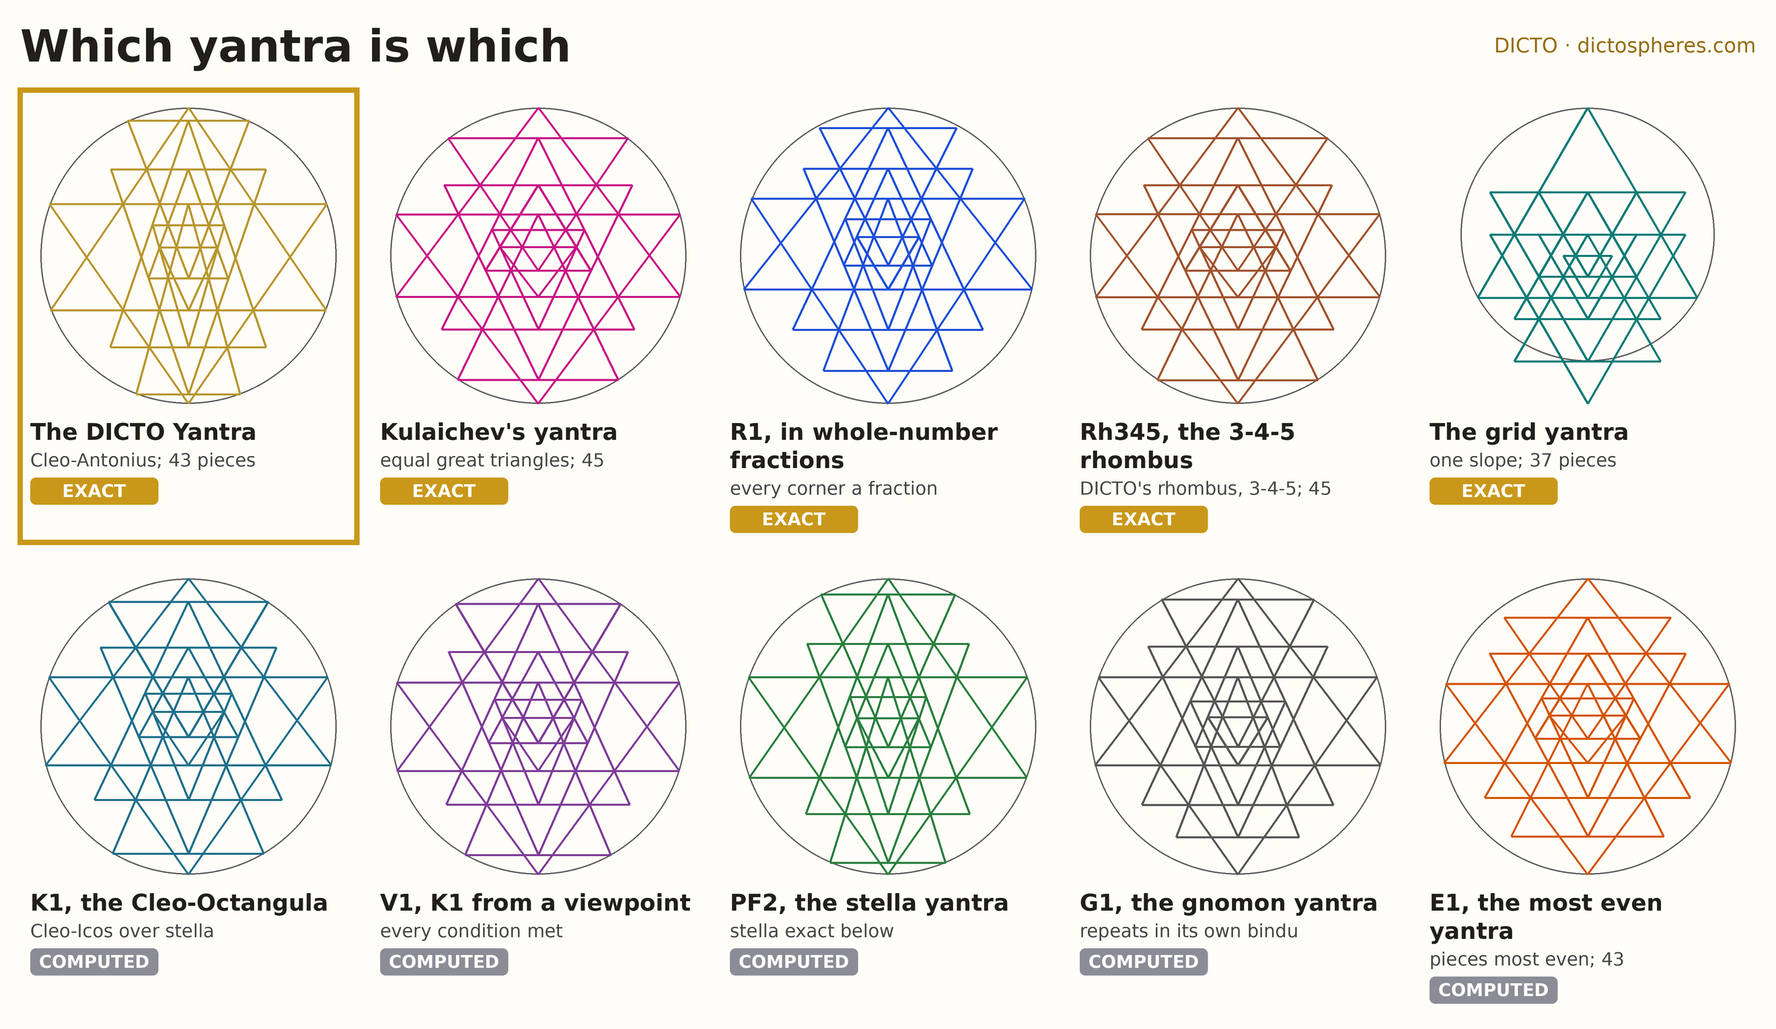
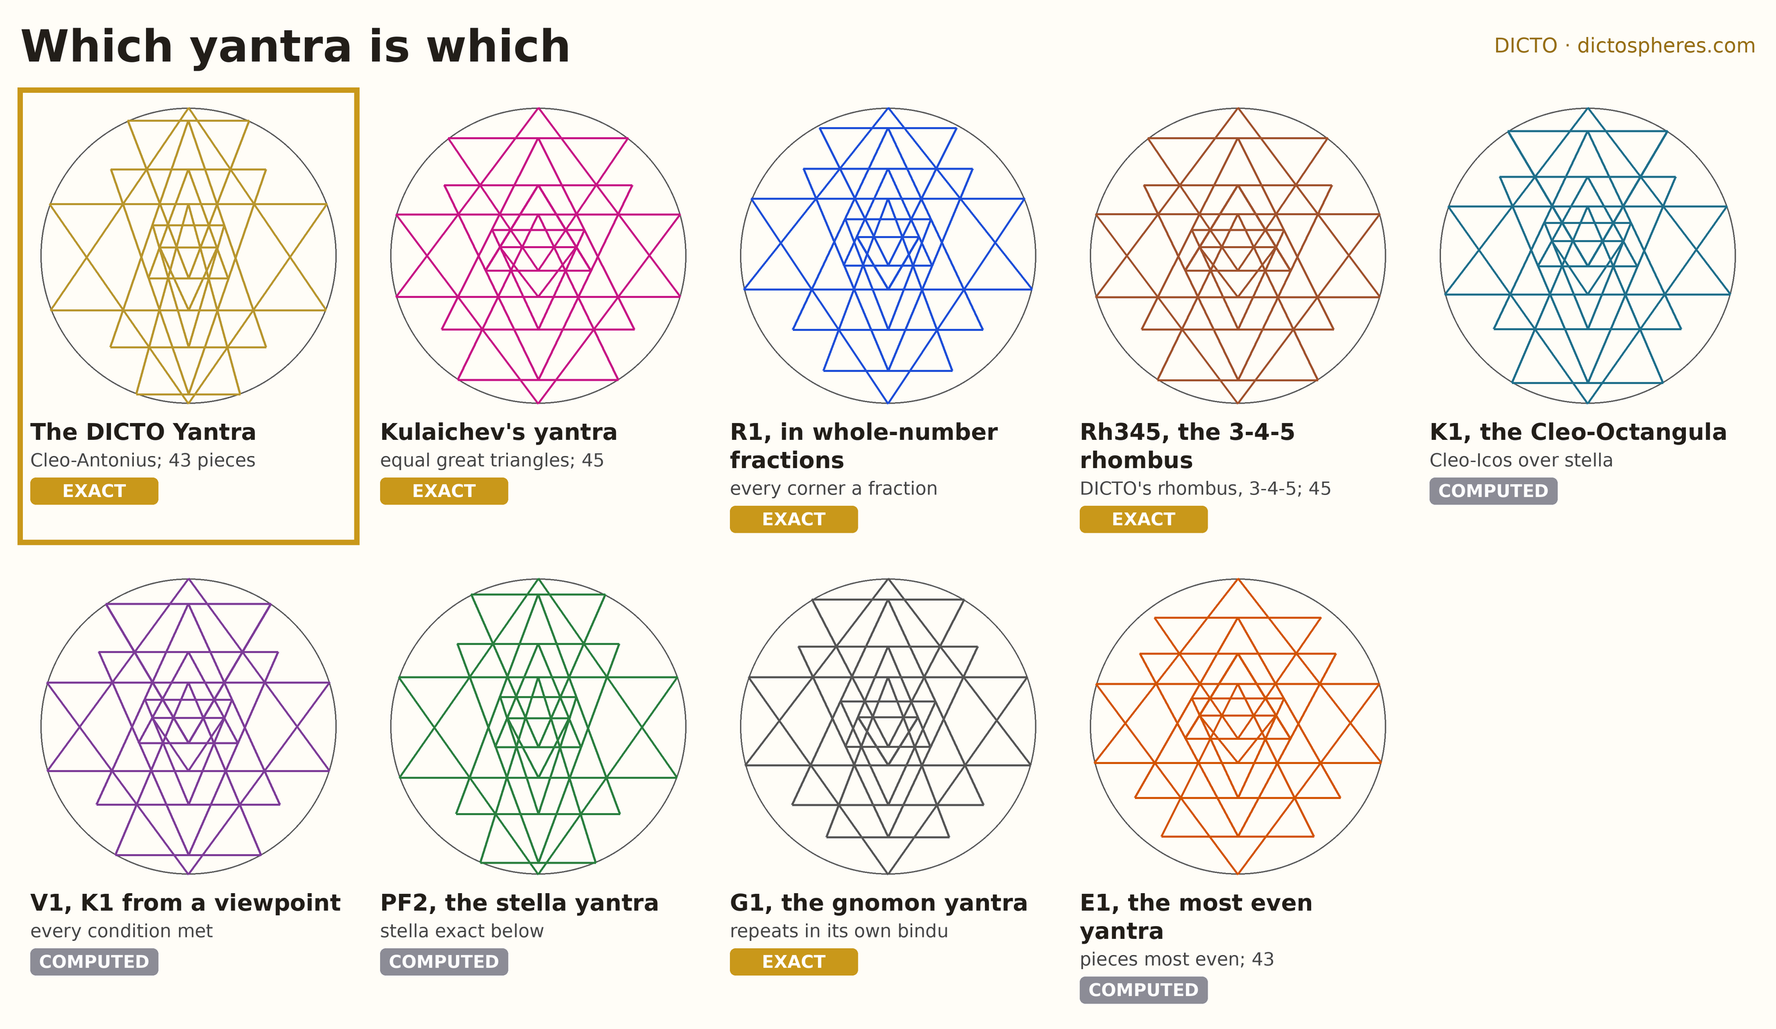
#103 v3: grid figure is the evidence for Theorem 7, not a yantra (out of Figure 2 and the exact list); G1 marked exact

diff --git a/papers/2026-11-08-dicto-yantra/paper.html b/papers/2026-11-08-dicto-yantra/paper.html
@@ -17,7 +17,7 @@ DICTO: ideas, names, constructions and direction.<br>Computation, verification a
 
 <div class="status">DRAFT of Version 3 for DICTO to read. Built from the proof audit of 9 November (studies/2026-11-09-yantra-audit: AUDIT_REPORT.md, certificates/, appendix_H.md). Before release: the data link in the meta line still points to commit 8e56566f; the audit's certificate scripts and the repaired cleo_cap.py go into the public kaleidohedra repository first, and the link moves to that commit. Attach H-full.txt (Appendix H), threshold-minpoly-u.txt (Proposition 13) and g1-minpoly-t.txt (G1) beside the two polynomial files. On release this box goes and the line below becomes the permanent Version 3 line.</div>
 
-<p class="version"><b>Version 3 adds</b> certificates for Theorems 9 and 10 (irreducibility, real-root isolation, and interval Newton with the elimination identities); certified piece counts for the DICTO Yantra (43) and Kulaichev's yantra (45); Appendix H (Theorem 6's relation H in full); a proof-status table (Table 4); admissibility conditions in Theorem 1; the narrower heading of Proposition 8; DICTO's 3-4-5 rhombus yantra as the parallel exact solution beside Kulaichev's (Proposition 12); a close-up of Kulaichev's extra pieces (Figure 12); the rhombus threshold u* where the extra pieces are born (Proposition 13); G1 exactly (degree 152); E1 placed on the edge of that threshold meeting and refined to 90 digits; and Figure 8 and §7 now name every part of the grid yantra outside the circle (t3's lower part and t9's base), not only t3's tip.<br><b>Version 2 added</b> the new title; the two exact solutions, the DICTO Yantra (Theorem 9: minimal polynomial of degree 160) and Kulaichev's classical yantra (Theorem 10: degree 348), each checked independently at 260 digits and backwards from the polynomial alone, and their comparison (Proposition 11); overlay figures, each yantra dotted in its own colour over the DICTO Yantra with its shortcomings noted in red, and an overview figure; §13 sorted into closed and exact, computed, and open; and wording: "perfect" is replaced by the conditions it stood for.</p>
+<p class="version"><b>Version 3 adds</b> certificates for Theorems 9 and 10 (irreducibility, real-root isolation, and interval Newton with the elimination identities); certified piece counts for the DICTO Yantra (43) and Kulaichev's yantra (45); Appendix H (Theorem 6's relation H in full); a proof-status table (Table 4); admissibility conditions in Theorem 1; the narrower heading of Proposition 8; DICTO's 3-4-5 rhombus yantra as the parallel exact solution beside Kulaichev's (Proposition 12); a close-up of Kulaichev's extra pieces (Figure 12); the rhombus threshold u* where the extra pieces are born (Proposition 13); G1 exactly (degree 152); E1 placed on the edge of that threshold meeting and refined to 90 digits; and the grid figure of §7 is no longer counted as a yantra: Figure 8 ("Why a grid fails") is the evidence for Theorem 7, naming every part outside the circle, and the grid leaves Figure 2.<br><b>Version 2 added</b> the new title; the two exact solutions, the DICTO Yantra (Theorem 9: minimal polynomial of degree 160) and Kulaichev's classical yantra (Theorem 10: degree 348), each checked independently at 260 digits and backwards from the polynomial alone, and their comparison (Proposition 11); overlay figures, each yantra dotted in its own colour over the DICTO Yantra with its shortcomings noted in red, and an overview figure; §13 sorted into closed and exact, computed, and open; and wording: "perfect" is replaced by the conditions it stood for.</p>
 
 <figure class="cover"><img src="figures/dicto-yantra-3d-gf1.png" alt="The DICTO Yantra in three dimensions: spinning cones, still tetrahedra, and the yantra seen from one of three positions"></figure>
 
@@ -27,11 +27,11 @@ DICTO: ideas, names, constructions and direction.<br>Computation, verification a
 
 <figure><img class="one" src="figures/dicto-yantra-gf1-plate.png" alt="The DICTO Yantra: nine triangles in a circle, 43 small triangles shaded ring by ring, 18 meeting points in red, the kite dashed"><figcaption><b>Figure 1. The DICTO Yantra.</b> Great pair: the Cleo-Antonius seen from the viewpoint that centres the bindu (slopes 0.6793 above, 0.6950 below, product exactly 2/φ³). Both small triangles touch the circle, the bindu is centred, 43 triangles (shaded ring by ring), 18 marmas (red), the six corner touches (blue), DICTO's rhombus (dashed; here a kite). The Cleo-Icos is the icosahedron's face pyramid of Euclid's Elements XIII and Hypsicles' Book XIV, and the pyramid Aristotle meant in On the Heavens (#44); Antonius is its space-filling partner (#44).</figcaption></figure>
 
-<figure><img src="figures/which-yantra.png" alt="Ten yantras small, each in its own colour, with its name and an EXACT or COMPUTED badge"><figcaption><b>Figure 2. Which yantra is which.</b> Every yantra drawn in this paper, each in the colour it has in the overlay figures. EXACT: every coordinate known in closed form (Theorems 2, 7, 9, 10 and §3). COMPUTED: every imposed condition met to 60 digits, exact form not found.</figcaption></figure>
+<figure><img src="figures/which-yantra.png" alt="Ten yantras small, each in its own colour, with its name and an EXACT or COMPUTED badge"><figcaption><b>Figure 2. Which yantra is which.</b> Every yantra drawn in this paper, each in the colour it has in the overlay figures. EXACT: every coordinate known in closed form (Theorems 2, 9, 10, §3 and, for G1, §9.4). The grid figure of §7 is not shown here: it is not a Śrī Yantra (Theorem 7). COMPUTED: every imposed condition met to 60 digits, exact form not found.</figcaption></figure>
 
 <h2>1. The yantra and its demands</h2>
 <p><b>Model.</b> The circle has diameter 1; depth d is measured down from its top point O, T is its bottom point. The nine triangles t1 … t9 follow Chiodo's numbering, bases from top to bottom: t1–t5 point down, t6–t9 point up. Triangle ti has base depth b<sub>i</sub>, half-width w<sub>i</sub> and apex depth a<sub>i</sub>. The two great triangles are inscribed: t7 has its apex at O, t3 at T, and their corners lie on the circle. The upper great triangle t7 has leg slope u (half-width per depth from O), the lower one t3 has leg slope v (from T). Writing P = b<sub>3</sub>, Q = b<sub>6</sub>, R = b<sub>7</sub>, S = b<sub>9</sub> (Chiodo's parameters), the circle gives P = v²/(1+v²), R = 1/(1+u²), w<sub>3</sub> = v/(1+v²), w<sub>7</sub> = u/(1+u²): the rational parametrisation of the circle.</p>
-<p><b>The demands.</b> (i) Apex on base: a<sub>8</sub> = b<sub>1</sub>, a<sub>6</sub> = b<sub>2</sub>, a<sub>9</sub> = b<sub>3</sub>, a<sub>1</sub> = b<sub>6</sub>, a<sub>5</sub> = b<sub>7</sub>, a<sub>4</sub> = b<sub>8</sub>, a<sub>2</sub> = b<sub>9</sub>. (ii) The <b>18 marmas</b>, nine mirror pairs of points where a down-leg, a base and an up-leg meet: (1,2,7), (2,3,7), (1,3,8), (1,4,6), (1,5,9), (4,6,9), (2,7,9), (3,7,8), (3,8,9). Their incidences per triangle are 8, 6, 8, 4, 2, 4, 8, 6, 8, as in Kavi Mahesh's table. (iii) Six <b>corner touches</b>, a corner of one triangle on another's side: (4,4,8), (5,5,6), (2,6,6). These are the conditions of Chiodo, equivalent to Huet's; every yantra in this paper except the grid yantra of §7 satisfies them all. Kulaichev, Rao and Pustynski add four more: (a) t3 ≅ t7; (b) t1's base corners on the circle; (c) t9's base corners on the circle; (d) the incircle of the bindu (the innermost triangle, between t1's legs and t5's base) centred on the circle's centre. Tradition also counts 43 small triangles and 24 <b>sandhis</b> (points where exactly two sides cross). We say a yantra <b>meets every condition</b> when it meets (i)–(iii), (b), (c), (d) and has 43 triangles, 18 marmas and 24 sandhis; that is, Kulaichev's three conditions (b), (c), (d) (both small triangles' corners on the circle, bindu centred) with the traditional 43.</p>
+<p><b>The demands.</b> (i) Apex on base: a<sub>8</sub> = b<sub>1</sub>, a<sub>6</sub> = b<sub>2</sub>, a<sub>9</sub> = b<sub>3</sub>, a<sub>1</sub> = b<sub>6</sub>, a<sub>5</sub> = b<sub>7</sub>, a<sub>4</sub> = b<sub>8</sub>, a<sub>2</sub> = b<sub>9</sub>. (ii) The <b>18 marmas</b>, nine mirror pairs of points where a down-leg, a base and an up-leg meet: (1,2,7), (2,3,7), (1,3,8), (1,4,6), (1,5,9), (4,6,9), (2,7,9), (3,7,8), (3,8,9). Their incidences per triangle are 8, 6, 8, 4, 2, 4, 8, 6, 8, as in Kavi Mahesh's table. (iii) Six <b>corner touches</b>, a corner of one triangle on another's side: (4,4,8), (5,5,6), (2,6,6). These are the conditions of Chiodo, equivalent to Huet's; every yantra in this paper satisfies them all (the grid figure of §7, which does not, is not a yantra: Theorem 7). Kulaichev, Rao and Pustynski add four more: (a) t3 ≅ t7; (b) t1's base corners on the circle; (c) t9's base corners on the circle; (d) the incircle of the bindu (the innermost triangle, between t1's legs and t5's base) centred on the circle's centre. Tradition also counts 43 small triangles and 24 <b>sandhis</b> (points where exactly two sides cross). We say a yantra <b>meets every condition</b> when it meets (i)–(iii), (b), (c), (d) and has 43 triangles, 18 marmas and 24 sandhis; that is, Kulaichev's three conditions (b), (c), (d) (both small triangles' corners on the circle, bindu centred) with the traditional 43.</p>
 <p><b>Reference images.</b> DICTO's reference was his photograph of a gold embossed yantra (338 px, tilted): its layout matches the model (t7's apex at the top, t3's at the bottom, nine level lines, 4 + 5 triangles); a rough reading gives P ≈ 0.39, R ≈ 0.63, u ≈ v ≈ 0.8, not precise enough to tell a kite from a rhombus. The exact yantras are also compared with H. J. T. Matos's painted yantra (2023, CC BY-SA 4.0), used as a reference only and not reproduced here.</p>
 <p><b>The figures.</b> From Figure 3 on, each variant yantra is drawn dotted in its own colour over the DICTO Yantra drawn solid in faint grey, in the same circle, with its name and its shortcomings in red on the image (overlay.py; every red note is measured from the stored coordinates or quoted from Table 3, and the script stops if one is not true).</p>
 
@@ -97,8 +97,8 @@ Q = t v (u²t³ − u²v t² − u²v² t + v) / (u²v t⁴ − u²(v² + 1) t³
 <p>The triangular grid, after the Matos painting, and the Cleo grid: all nine triangles similar, with one leg slope s (s = 1/√3 equilateral, s = 1/φ the Cleo-Icos side face).</p>
 <div class="thm"><b>Theorem 7 (one slope).</b> If all nine triangles have the same leg slope s, then: (1) the 18 marmas and the 7 apex-on-base conditions fix the yantra up to scale and shift along the axis, for every s, with heights t5 : t1 : t4 : t6 : t8 : t9 : t2 : t3 : t7 = 2 : 4 : 4 : 4 : 6 : 6 : 8 : 8 : 9; (2) adding the corner touches forces every triangle to size zero, so no one-slope yantra has them; (3) the two great triangles cannot both be inscribed.</div>
 <p><i>Proof.</i> With one slope, two legs of slope s from tips at depths a<sub>i</sub> and a<sub>k</sub>, one pointing down and one up, cross at depth (a<sub>i</sub> + a<sub>k</sub>)/2, whatever s. So a marma (i, j, k) is the linear condition b<sub>j</sub> = (a<sub>i</sub> + a<sub>k</sub>)/2, an apex-on-base is a<sub>x</sub> = b<sub>y</sub>, and a corner touch of i on j is b<sub>i</sub> = (a<sub>i</sub> + a<sub>j</sub>)/2. Solving the 16 conditions of (1) leaves two free depths and gives the sizes a<sub>i</sub> − b<sub>i</sub> as multiples of b<sub>9</sub> − b<sub>8</sub>: 2, 4, 4, 2, 1, 2, 9/2, 3, 3 for t1 … t9, which doubled are the ratios above. Adding the three corner touches leaves one free depth and every size 0 (one_slope.py). (3) An inscribed triangle with its tip on the circle and leg slope s has height 1/(1 + s²); t3 and t7 would need the same height, but their heights are in the ratio 8 : 9. ∎</p>
-<p>With t7 inscribed, t3's tip falls outside the circle, at depth 7/6 = 1.167 for the equilateral grid and 1.126 for the Cleo grid (for the equilateral grid its legs leave the circle at depth 0.989, so the lowest 27% of t3's height lies outside), and t9's base lies on the tangent at the bottom point (for both grids), its corners 0.077 of the diameter outside for the equilateral grid; the pieces are 12, 9, 6, 9, 1 (37), not 43. The slope only stretches the yantra sideways, so the two grids give the same yantra up to that stretch. A grid yantra is exact in every meeting but is not the traditional figure; painted grid yantras relax exactness.</p>
-<figure><img class="ov" src="figures/overlay-grid.png" alt="The equilateral grid yantra dotted in teal over the DICTO Yantra; t3's tip ringed below the circle"><figcaption><b>Figure 8. The equilateral grid yantra</b> (Theorem 7), dotted over the DICTO Yantra (solid grey): every meeting exact, heights 2 : 4 : 4 : 4 : 6 : 6 : 8 : 8 : 9; ringed in red, t3's tip and t9's base corners, outside the circle; 37 odd pieces (12, 9, 6, 9, 1).</figcaption></figure>
+<p>With t7 inscribed, t3's tip falls outside the circle, at depth 7/6 = 1.167 for the equilateral grid and 1.126 for the Cleo grid (for the equilateral grid its legs leave the circle at depth 0.989, so the lowest 27% of t3's height lies outside), and t9's base lies on the tangent at the bottom point (for both grids), its corners 0.077 of the diameter outside for the equilateral grid; the pieces are 12, 9, 6, 9, 1 (37), not 43. The slope only stretches the yantra sideways, so the two grids give the same yantra up to that stretch. So a grid cannot make a Śrī Yantra: the grid figure keeps every meeting exact, but part of it lies outside the circle and it has 37 pieces, not 43. Painted grid yantras relax exactness.</p>
+<figure><img class="ov" src="figures/overlay-grid.png" alt="Why a grid fails: the equilateral grid figure dotted in teal over the DICTO Yantra; t3's tip and t9's base corners ringed outside the circle"><figcaption><b>Figure 8. Why a grid fails</b> (Theorem 7): the equilateral grid figure, dotted over the DICTO Yantra (solid grey): every meeting exact, heights 2 : 4 : 4 : 4 : 6 : 6 : 8 : 8 : 9; ringed in red, t3's tip and t9's base corners, outside the circle; 37 odd pieces (12, 9, 6, 9, 1).</figcaption></figure>
 
 <h2>8. The parent of the stella yantra's upper slope</h2>
 <p>With both great slopes fixed by solids, only two of (b), (c), (d) can be imposed. Here the stella is kept: its tetrahedron stays exact below (v = 1/√2) and the upper slope is free. The result, PF2 (§9.3, Figure 9), has upper slope u = 0.695886431693, whose base corners lie 110.332934° round the circle from its tip (cos = (u² − 1)/(u² + 1)); the stella's lower triangle has 109.471221°, the tetrahedral angle.</p>
@@ -166,7 +166,7 @@ Q = t v (u²t³ − u²v t² − u²v² t + v) / (u²v t⁴ − u²(v² + 1) t³
 <figure><img src="figures/spherical-yantra-gf1.png" alt="The DICTO Yantra projected onto a sphere, from above the cap and tilted" style="width:150mm"><figcaption><b>Figure 14. The spherical DICTO Yantra</b> (on a 60° cap): lines become great circles, every meeting kept; seen from above the cap and tilted.</figcaption></figure>
 
 <h2>12. The choice</h2>
-<p>Every exact yantra found chooses between two goods: its small top and bottom triangles touching the circle, or its 43 pieces as even as they can be. The <b>DICTO Yantra</b> takes the first: on the Cleo-Antonius, every traditional condition holds, the corners touch the circle, the bindu is centred, 43, 18 and 24; it meets Kulaichev's three conditions (b), (c), (d) with the traditional 43, and is now known exactly (Theorem 9). The <b>most even yantra</b> takes the second: every meeting and the 43 kept, its corners just inside the circle as in painted yantras; its pieces are the most equal found (spread/mean 0.614 against 0.866). The grid yantras keep every meeting with integer heights but lose both: 37 pieces, and the circle cannot hold them.</p>
+<p>Every exact yantra found chooses between two goods: its small top and bottom triangles touching the circle, or its 43 pieces as even as they can be. The <b>DICTO Yantra</b> takes the first: on the Cleo-Antonius, every traditional condition holds, the corners touch the circle, the bindu is centred, 43, 18 and 24; it meets Kulaichev's three conditions (b), (c), (d) with the traditional 43, and is now known exactly (Theorem 9). The <b>most even yantra</b> takes the second: every meeting and the 43 kept, its corners just inside the circle as in painted yantras; its pieces are the most equal found (spread/mean 0.614 against 0.866). A grid cannot make a yantra at all (Theorem 7): with one slope the circle cannot hold the figure, and it has 37 pieces.</p>
 
 <h2>13. What is closed, what is computed, what is open</h2>
 <table class="t"><tr><th>status</th><th>meaning</th></tr>
@@ -196,8 +196,8 @@ Q = t v (u²t³ − u²v t² − u²v² t + v) / (u²v t⁴ − u²(v² + 1) t³
 <tr><td>G1 exact (degree 152); E1 on the edge, refined to 90 digits</td><td>computed, not certified</td></tr>
 <tr><td>§11 spheres (gnomonic projection keeps every meeting)</td><td>exact symbolic; caps and figures computed</td></tr></table>
 <p class="small">Table 4. How each result is established.</p>
-<p><b>Closed and exact.</b> The DICTO Yantra (Theorem 9, degree 160); Kulaichev's yantra (Theorem 10, degree 348); R1, in whole-number fractions (Theorem 2); Rh345, in a number field of degree 20 (§3); the grid yantra, with integer height ratios (Theorem 7). With them the quadratic family itself (Theorem 1).</p>
-<p><b>Computed.</b> Every imposed condition met with 60-digit arithmetic to 10⁻⁵⁰ (E1 optimised in double precision, then rebuilt at 60 digits), exact form not found: K1, V1, PF2, G1, E1, and the other yantras of Table 3 (PF1, K2–K4, the stella and Cleo rhombus yantras). The elimination route of Theorem 9 applies to each of them.</p>
+<p><b>Closed and exact.</b> The DICTO Yantra (Theorem 9, degree 160); Kulaichev's yantra (Theorem 10, degree 348); R1, in whole-number fractions (Theorem 2); Rh345, in a number field of degree 20 (§3); G1 (§9.4, degree 152). Theorem 7: no yantra has one slope for all nine triangles. With them the quadratic family itself (Theorem 1).</p>
+<p><b>Computed.</b> Every imposed condition met with 60-digit arithmetic to 10⁻⁵⁰ (E1 optimised in double precision, then rebuilt at 60 digits), exact form not found: K1, V1, PF2, E1 (E1 now refined to 90 digits on its edge, §9.6), and the other yantras of Table 3 (PF1, K2–K4, the stella and Cleo rhombus yantras). The elimination route of Theorem 9 applies to each of them.</p>
 <p><b>Open.</b> (1) Whether E1 is the most even yantra possible (a proof that the optimum is global), and whether any yantra with corners on the circle is as even. (2) The 45-piece rule beyond the rhombus family (§9.5; the rhombus family is Proposition 13). (3) A rational yantra nearer the traditional drawing (rational points on the genus-2 fibres); a rational yantra on the rhombus (Δ a square on a three-parameter slice). (4) Kavi Mahesh's rational heights made exact, in ℚ(√2, √3, √Δ). (5) Irrationality of u² for PF2 (Proposition 8 (2)). (6) Proposition 8 beyond the tested families: many-sided regular polygons.</p>
 
 <h2>14. What is known, and what is new</h2>

diff --git a/studies/2026-11-08-sri-yantra/scripts/overlay.py b/studies/2026-11-08-sri-yantra/scripts/overlay.py
@@ -35,11 +35,11 @@ Y = {  # key: (label, loader, colour, exact?)
     'KRP': ("Kulaichev's yantra", kulaichev, (199, 21, 133), True),
     'R1': ('R1, in whole-number fractions', lambda: from_json(os.path.join(DAT, 'quadratic-examples.json'), 'R1'), (29, 78, 216), True),
     'Rh345': ('Rh345, the 3-4-5 rhombus', lambda: from_json(os.path.join(DAT, 'rhombus345-coordinates.json'), 'Rh345'), (160, 82, 45), True),
-    'grid': ('The grid yantra', lambda: from_json(os.path.join(FIG, 'grid.json'), 'G1'), (11, 122, 117), True),
+    'grid': ('Why a grid fails', lambda: from_json(os.path.join(FIG, 'grid.json'), 'G1'), (11, 122, 117), True),
     'K1': ('K1, the Cleo-Octangula', lambda: from_json(os.path.join(FIG, 'kites.json'), 'K1'), (31, 111, 139), False),
     'V1': ('V1, K1 from a viewpoint', lambda: from_json(os.path.join(FIG, 'viewpoint.json'), 'V1'), (125, 60, 152), False),
     'PF2': ('PF2, the stella yantra', lambda: from_json(os.path.join(FIG, 'perfect.json'), 'PF2'), (42, 127, 63), False),
-    'G1': ('G1, the gnomon yantra', lambda: from_json(os.path.join(FIG, 'gnomon.json'), 'G1'), (85, 85, 85), False),
+    'G1': ('G1, the gnomon yantra', lambda: from_json(os.path.join(FIG, 'gnomon.json'), 'G1'), (85, 85, 85), True),
     'E1': ('E1, the most even yantra', lambda: from_json(os.path.join(FIG, 'even.json'), 'E1'), (211, 84, 0), False),
 }
 
@@ -104,9 +104,11 @@ def plate(key, notes, rings_marks, out):
     bx = Wd - side - 230 * s; sz = 64
     while dr.textlength(label, font=font(BOLD, sz * s)) > bx - side - 30 * s: sz -= 2
     dr.text((side, 30 * s + (64 - sz) * s // 2), label, font=font(BOLD, sz * s), fill=INK)
-    dr.rounded_rectangle([bx, 44 * s, bx + 230 * s, 90 * s], radius=8 * s, fill=(201, 152, 26) if exact else (140, 140, 150))
-    dr.text((bx + 115 * s, 67 * s), 'EXACT' if exact else 'COMPUTED', font=font(BOLD, 28 * s), fill='white', anchor='mm')
+    if key != 'grid':   # DICTO 10 Nov 2026: the grid figure is the evidence for Theorem 7, not a yantra of the gallery
+        dr.rounded_rectangle([bx, 44 * s, bx + 230 * s, 90 * s], radius=8 * s, fill=(201, 152, 26) if exact else (140, 140, 150))
+        dr.text((bx + 115 * s, 67 * s), 'EXACT' if exact else 'COMPUTED', font=font(BOLD, 28 * s), fill='white', anchor='mm')
     short = label.split(',')[0]; short = short[0].lower() + short[1:] if short.startswith('The ') else short
+    if key == 'grid': short = 'the equilateral grid figure'
     dr.text((side, 122 * s), 'solid grey: the DICTO Yantra;   dotted, in colour: ' + short, font=fs_, fill=(80, 80, 80))
     circle(dr, X, Yd, (90, 90, 90), 3 * s)
     draw_lines(dr, b0, w0, a0, X, Yd, GREY, 4 * s)
@@ -126,7 +128,7 @@ def overview(out):
     im = Image.new('RGB', (cols * tw + 40 * s, head + rows * th), BG); dr = ImageDraw.Draw(im)
     dr.text((30 * s, 30 * s), 'Which yantra is which', font=font(BOLD, 66 * s), fill=INK)
     dr.text((im.width - 30 * s, 50 * s), 'DICTO · dictospheres.com', font=font(FONT, 30 * s), fill=(150, 110, 20), anchor='ra')
-    order = ['GF1', 'KRP', 'R1', 'Rh345', 'grid', 'K1', 'V1', 'PF2', 'G1', 'E1']
+    order = ['GF1', 'KRP', 'R1', 'Rh345', 'K1', 'V1', 'PF2', 'G1', 'E1']   # grid left out (not a yantra: Theorem 7)
     sub = {'GF1': 'Cleo-Antonius; 43 pieces', 'KRP': 'equal great triangles; 45', 'R1': 'every corner a fraction',
            'Rh345': "DICTO's rhombus, 3-4-5; 45", 'grid': 'one slope; 37 pieces', 'K1': 'Cleo-Icos over stella',
            'V1': 'every condition met', 'PF2': 'stella exact below', 'G1': 'repeats in its own bindu',
